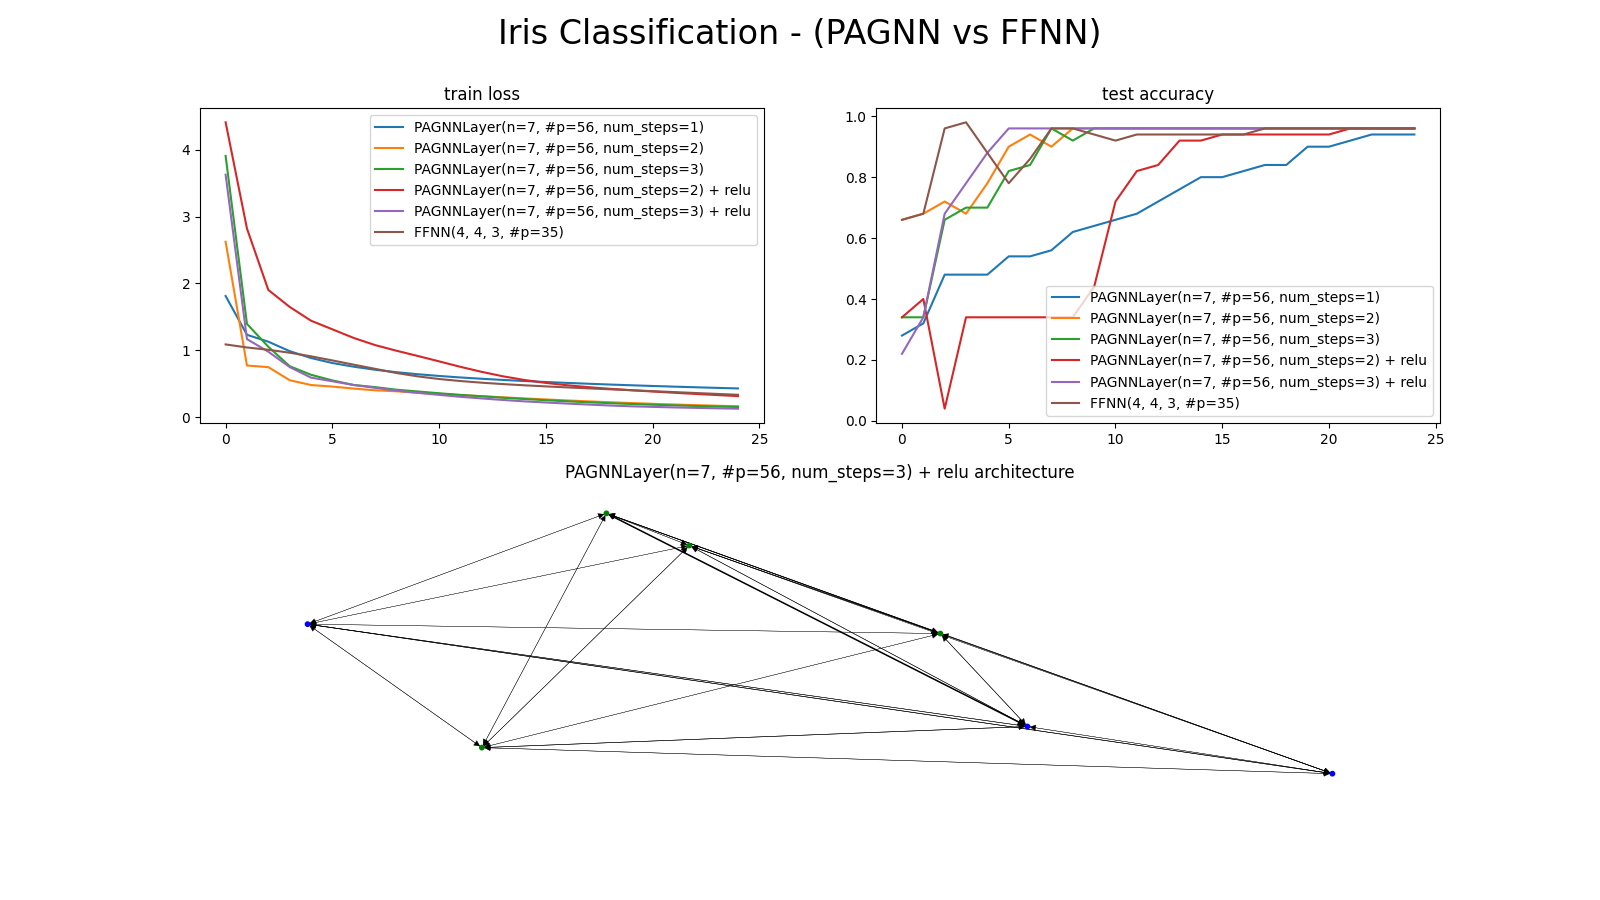
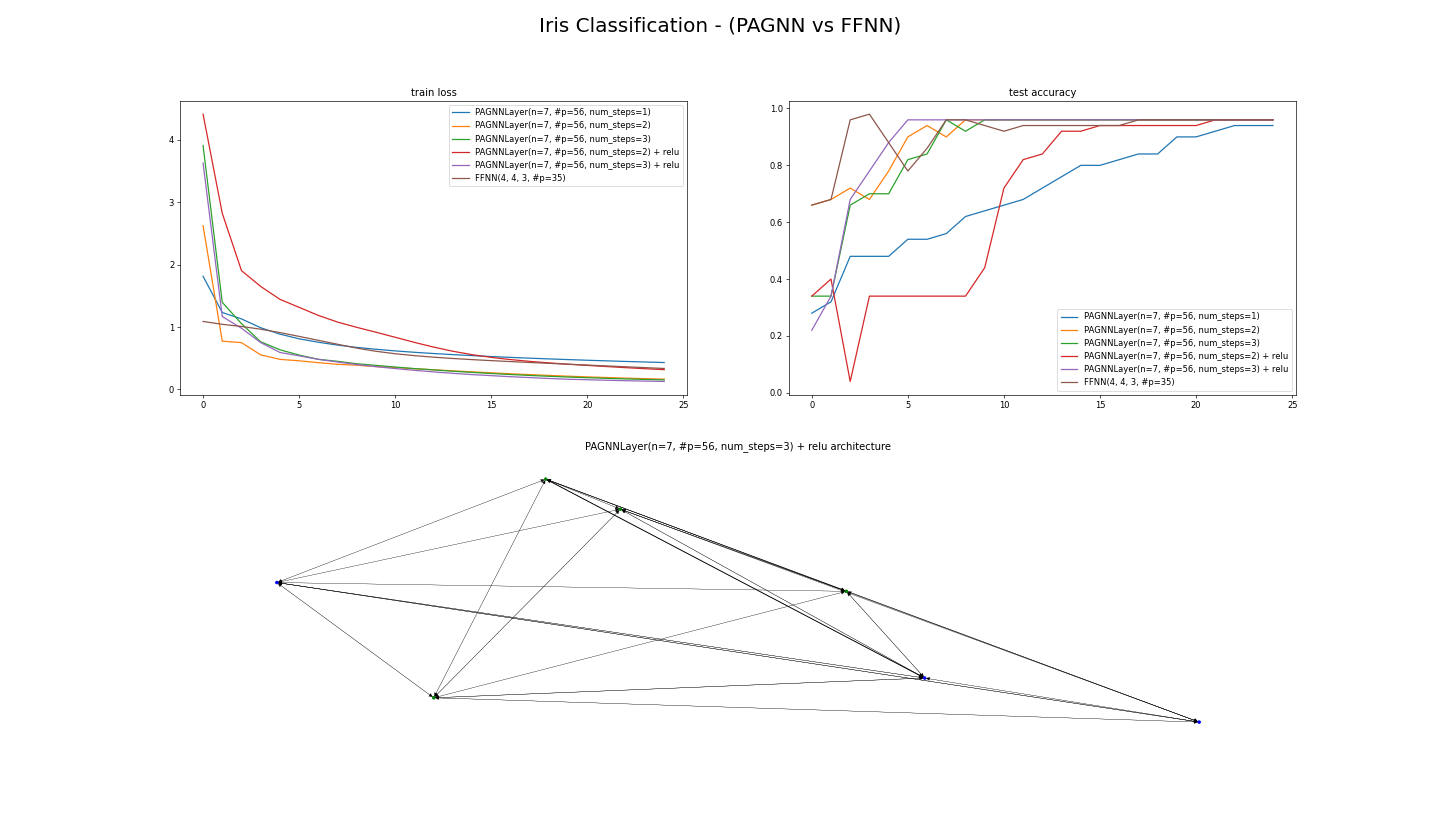
change dpi

diff --git a/examples/iris_classification.py b/examples/iris_classification.py
@@ -105,7 +105,7 @@ if __name__ == '__main__':
     epochs = 25
     compare(model_dicts, train_dl, test_dl, epochs, criterion, test_accuracy=True, device=device)
     
-    fig = plt.figure(figsize=(16, 9))
+    fig = plt.figure(figsize=(24, 14), dpi=60)
     fig.suptitle('Iris Classification - (PAGNN vs FFNN)', fontsize=24)
 
     plt.subplot(221)
